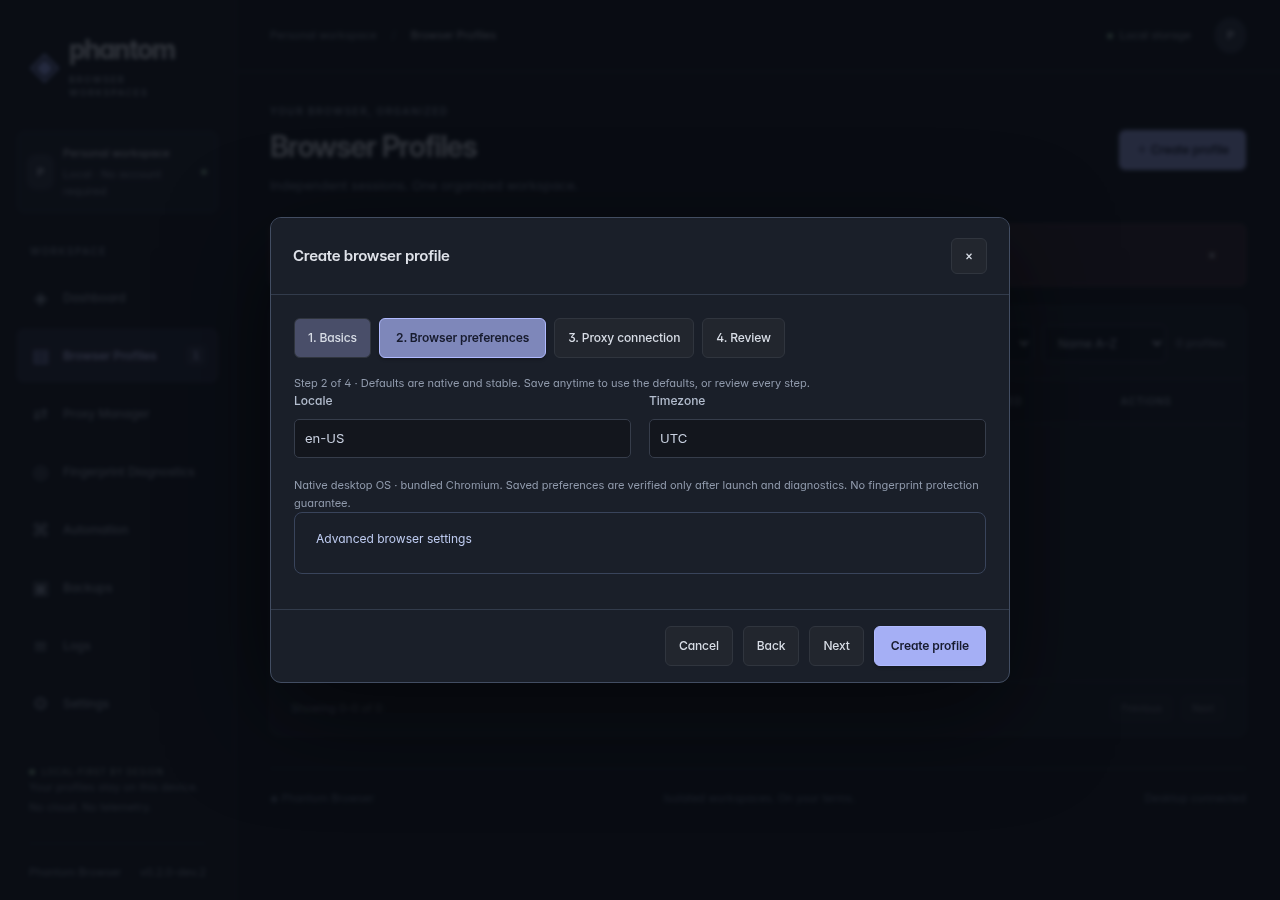
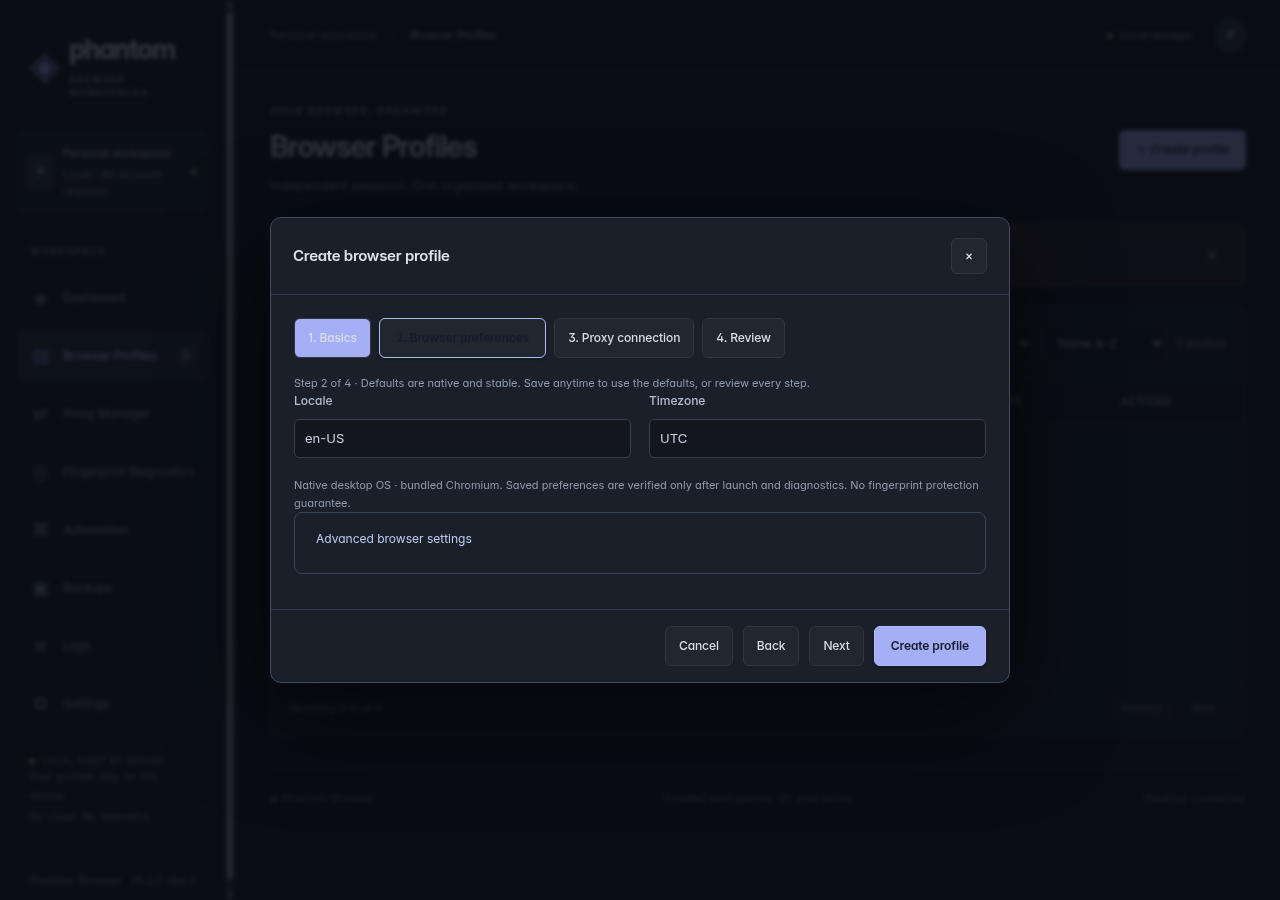
fix: keep provider settings reachable at minimum desktop size

Changed region(s): [[0.2188, 0.3422, 0.4375, 0.4044]]

diff --git a/tests/desktop.integration.spec.ts b/tests/desktop.integration.spec.ts
@@ -86,7 +86,7 @@ test('default creation is name and country, reports missing provider honestly, a
  const root=fs.mkdtempSync(path.join(os.tmpdir(),'phantom-simple-location-'));
  const app=await electron.launch({args:['.',`--user-data-dir=${root}`,...(process.platform==='linux'?['--no-sandbox']:[])]});
  try{
-  const page=await app.firstWindow();await page.getByRole('button',{name:'＋ Create profile'}).first().click();await expect(page.getByLabel('Profile name',{exact:true})).toHaveValue('Profile 1');await expect(page.getByLabel('Desired country',{exact:true})).toBeVisible();await expect(page.getByRole('alert')).toContainText('Authentication required');await expect(page.getByLabel('Override timezone',{exact:true})).not.toBeVisible();await expect(page.getByText('Advanced Settings (optional)',{exact:true})).toBeVisible();await expect(page.getByText('1. Basics',{exact:true})).not.toBeVisible();
-  await page.screenshot({path:'docs/location-quick-create.png'});await page.getByLabel('Profile name',{exact:true}).fill('Simple direct profile');await page.getByRole('button',{name:'Create profile',exact:true}).click();await expect(page.getByRole('dialog')).not.toBeVisible();const r=await page.evaluate(()=>window.phantom!.request({action:'snapshot'}));expect(r.ok&&r.snapshot.profiles[0]).toMatchObject({name:'Simple direct profile',proxyId:null,requestedCountry:null,autoLocation:false});await page.getByRole('button',{name:'Settings',exact:true}).click();await expect(page.getByLabel('Webshare API token',{exact:true})).toHaveValue('');await expect(page.getByLabel('ipapi.co geolocation API key',{exact:true})).toHaveValue('');await page.screenshot({path:'docs/location-provider-settings.png'});
+  const page=await app.firstWindow();await expect(page.getByRole('heading',{name:'Dashboard',exact:true})).toBeVisible();await app.evaluate(({BrowserWindow})=>{BrowserWindow.getAllWindows()[0]!.setBounds({x:0,y:0,width:1000,height:680});});await page.getByRole('button',{name:'＋ Create profile'}).first().click();await expect(page.getByLabel('Profile name',{exact:true})).toHaveValue('Profile 1');await expect(page.getByLabel('Desired country',{exact:true})).toBeVisible();await expect(page.getByRole('alert')).toContainText('Authentication required');await expect(page.getByLabel('Override timezone',{exact:true})).not.toBeVisible();await expect(page.getByText('Advanced Settings (optional)',{exact:true})).toBeVisible();await expect(page.getByText('1. Basics',{exact:true})).not.toBeVisible();
+  await page.screenshot({path:'docs/location-quick-create.png'});await page.getByLabel('Profile name',{exact:true}).fill('Simple direct profile');await page.getByRole('button',{name:'Create profile',exact:true}).click();await expect(page.getByRole('dialog')).not.toBeVisible();const r=await page.evaluate(()=>window.phantom!.request({action:'snapshot'}));expect(r.ok&&r.snapshot.profiles[0]).toMatchObject({name:'Simple direct profile',proxyId:null,requestedCountry:null,autoLocation:false});await page.getByRole('button',{name:'Settings',exact:true}).click();await expect(page.getByRole('button',{name:'Settings',exact:true})).toBeInViewport();await expect(page.getByLabel('Webshare API token',{exact:true})).toHaveValue('');await expect(page.getByLabel('ipapi.co geolocation API key',{exact:true})).toHaveValue('');await page.screenshot({path:'docs/location-provider-settings.png'});
  }finally{await app.close();fs.rmSync(root,{recursive:true,force:true});}
 });

diff --git a/src/renderer/style.css b/src/renderer/style.css
@@ -7,3 +7,6 @@
 
 /* Beginner workflows; same local palette and no remote assets. */
 .welcome-card{border:1px solid #414b68;border-radius:10px;padding:24px;margin-bottom:24px;background:linear-gradient(120deg,#262d42,#191e2b);display:grid;grid-template-columns:1.6fr 1fr;gap:16px 24px}.welcome-card h2{font-size:21px;line-height:1.3;margin:8px 0}.welcome-card p{font-size:12px;color:#b1bdd3;max-width:620px;margin-bottom:0}.welcome-card ol{font-size:12px;color:#c0cbea;line-height:2.4;margin:10px 0}.welcome-card>button{justify-self:start}.profile-link{border:0;background:none;padding:0;color:#c5d0ff;text-align:left;font-weight:600}.profile-link:hover{text-decoration:underline}.detail-tabs{display:flex;flex-wrap:wrap;gap:6px;border-bottom:1px solid #354055;padding-bottom:16px;margin-bottom:18px}.detail-tabs button{font-size:11px}.detail-tabs [aria-selected=true]{background:#394665;color:#e2e9ff;border-color:#899bd8}.advanced-settings{border:1px solid #39445b;border-radius:8px;padding:12px;margin-bottom:12px}.advanced-settings>summary{border:0;font-size:12px;margin-bottom:8px;color:#becbf0}.modal-footer{flex-wrap:wrap}.modal .actions{flex-wrap:wrap}.modal td{white-space:normal;overflow-wrap:anywhere}.modal textarea{resize:vertical}.modal input:invalid:not(:placeholder-shown){border-color:#a56b7b}button:focus-visible,input:focus-visible,summary:focus-visible,select:focus-visible,textarea:focus-visible{outline:2px solid #a9baff;outline-offset:3px}@media(max-width:1100px){.welcome-card{grid-template-columns:1fr}.welcome-card ol{margin:0}.modal-backdrop{padding:12px}}
+
+/* Keep every core workflow reachable at the minimum window size and OS scaling. */
+aside{overflow-y:auto;overscroll-behavior:contain;scrollbar-width:thin}aside>*{flex-shrink:0}
